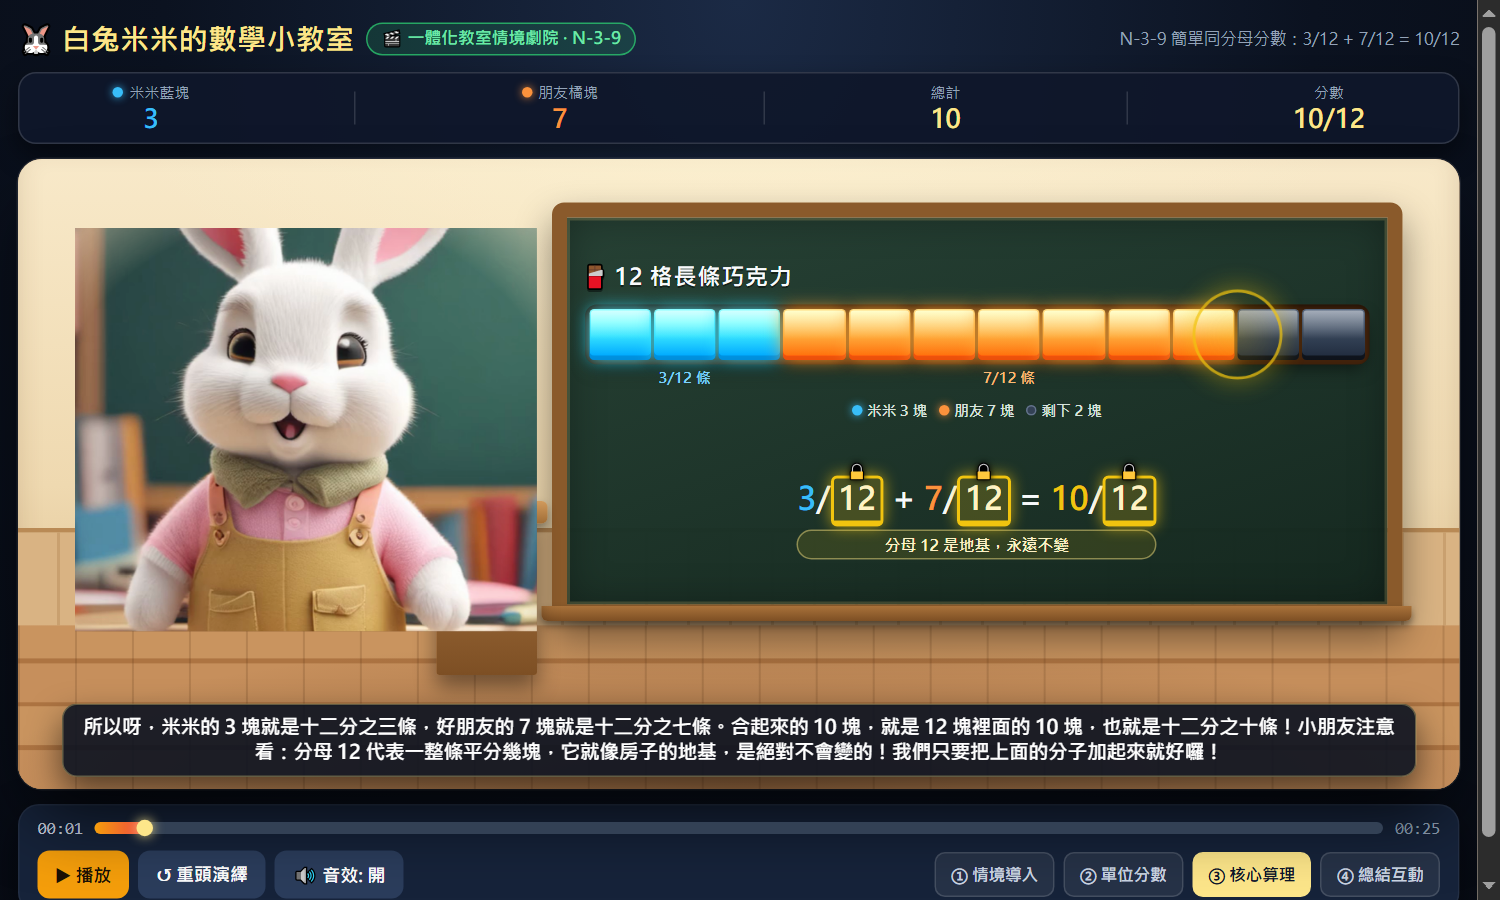
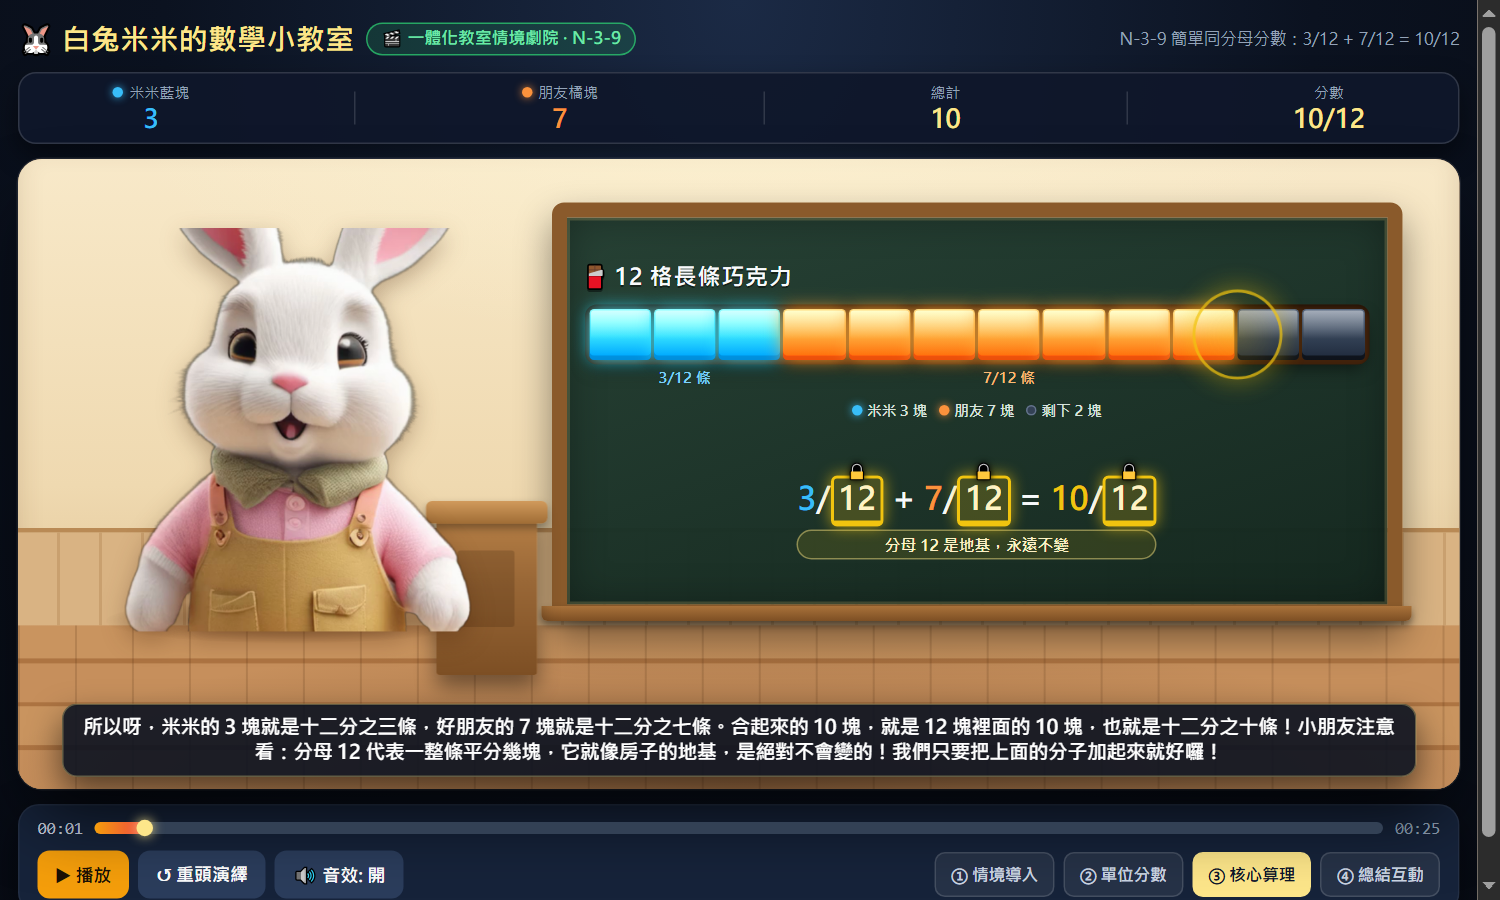
refactor(g3_n39): unified classroom theater, remove 48:52 split, align 4-act script/timeline

Changed region(s): [[0.0307, 0.2489, 0.368, 0.7156]]

diff --git a/tools/20261119_001_verify_g3n39_spatial_blend.js b/tools/20261119_001_verify_g3n39_spatial_blend.js
@@ -1,0 +1,170 @@
+/**
+ * tools/20261119_001_verify_g3n39_spatial_blend.js
+ * G3-N-3-9 米米透明底空間融合：機械化防偽守門（CDP 實機幾何／樣式／錯誤／單屏驗證）
+ */
+'use strict';
+const { spawn } = require('node:child_process');
+const fs = require('node:fs');
+const http = require('node:http');
+const os = require('node:os');
+const path = require('node:path');
+
+const ROOT = path.resolve(__dirname, '..');
+const SCENE_PATH = 'app/scenes/g3_n39_theater/index.html';
+const MIME = {
+  '.html': 'text/html; charset=utf-8', '.js': 'text/javascript; charset=utf-8',
+  '.css': 'text/css; charset=utf-8', '.json': 'application/json; charset=utf-8',
+  '.svg': 'image/svg+xml', '.mp4': 'video/mp4', '.mp3': 'audio/mpeg',
+  '.png': 'image/png', '.ico': 'image/x-icon'
+};
+const CHROME = [
+  'C:\\Program Files\\Google\\Chrome\\Application\\chrome.exe',
+  'C:\\Program Files (x86)\\Google\\Chrome\\Application\\chrome.exe',
+  'C:\\Program Files (x86)\\Microsoft\\Edge\\Application\\msedge.exe'
+].find((p) => fs.existsSync(p));
+if (!CHROME) { console.error('找不到 Chrome/Edge'); process.exit(1); }
+
+const sleep = (ms) => new Promise((r) => setTimeout(r, ms));
+const results = [];
+function check(name, ok, detail) {
+  results.push({ name, ok: !!ok, detail });
+  console.log(`${ok ? 'PASS' : 'FAIL'} | ${name} | ${detail}`);
+}
+
+function startServer() {
+  return new Promise((resolve) => {
+    const server = http.createServer((req, res) => {
+      if (req.url === '/favicon.ico') { res.writeHead(204); res.end(); return; }
+      const rel = req.url === '/' ? SCENE_PATH : req.url.split('?')[0].replace(/^\/+/, '');
+      const fp = path.resolve(ROOT, decodeURIComponent(rel));
+      fs.readFile(fp, (err, buf) => {
+        if (err) { res.writeHead(404); res.end('404'); return; }
+        res.writeHead(200, { 'Content-Type': MIME[path.extname(fp).toLowerCase()] || 'application/octet-stream' });
+        res.end(buf);
+      });
+    });
+    server.listen(0, '127.0.0.1', () => resolve({ server, port: server.address().port }));
+  });
+}
+
+async function waitTarget(port) {
+  const deadline = Date.now() + 15000;
+  while (Date.now() < deadline) {
+    try {
+      const body = await new Promise((res, rej) => {
+        http.get(`http://127.0.0.1:${port}/json`, (r) => {
+          let b = ''; r.on('data', (c) => (b += c)); r.on('end', () => res(b));
+        }).on('error', rej);
+      });
+      const page = JSON.parse(body).find((t) => t.type === 'page');
+      if (page) return page;
+    } catch (e) {}
+    await sleep(200);
+  }
+  throw new Error('CDP target timeout');
+}
+
+function connect(wsUrl) {
+  const WebSocket = require('ws');
+  return new Promise((resolve, reject) => {
+    const ws = new WebSocket(wsUrl);
+    let id = 1;
+    const pending = new Map();
+    const errors = [];
+    const badUrls = [];
+    ws.on('open', () => resolve({
+      errors, badUrls,
+      send: (method, params = {}) => new Promise((res, rej) => {
+        const rid = id++; pending.set(rid, { res, rej });
+        ws.send(JSON.stringify({ id: rid, method, params }));
+      }),
+      close: () => ws.close()
+    }));
+    ws.on('message', (data) => {
+      const msg = JSON.parse(data);
+      if (msg.method === 'Runtime.exceptionThrown') errors.push('exception: ' + (msg.params.exceptionDetails.text || ''));
+      if (msg.method === 'Log.entryAdded' && msg.params.entry.level === 'error') errors.push('console: ' + msg.params.entry.text + ' @ ' + (msg.params.entry.url || '?'));
+      if (msg.method === 'Network.responseReceived' && msg.params.response.status >= 400) badUrls.push(msg.params.response.status + ' ' + msg.params.response.url);
+      if (msg.id && pending.has(msg.id)) {
+        const { res, rej } = pending.get(msg.id); pending.delete(msg.id);
+        msg.error ? rej(new Error(msg.error.message)) : res(msg.result);
+      }
+    });
+    ws.on('error', reject);
+  });
+}
+
+const PROBE = `(() => {
+  const g = (id) => document.getElementById(id);
+  const rect = (el) => { const r = el.getBoundingClientRect(); return { l:r.left, r:r.right, t:r.top, b:r.bottom, w:r.width, h:r.height }; };
+  const mimi = g('mimiAnchor'), wrap = g('mimiWrap'), board = g('blackboard'), stage = g('stageWrapper');
+  const cs = getComputedStyle(mimi);
+  const shadow = getComputedStyle(wrap, '::after');
+  return {
+    src: mimi.getAttribute('src'),
+    natural: { w: mimi.naturalWidth, h: mimi.naturalHeight },
+    mask: cs.maskImage || cs.webkitMaskImage,
+    objectFit: cs.objectFit, objectPosition: cs.objectPosition,
+    shadowBg: shadow.backgroundImage,
+    mimi: rect(wrap), board: rect(board), stage: rect(stage),
+    scrollW: document.documentElement.scrollWidth, clientW: document.documentElement.clientWidth,
+    scrollH: document.documentElement.scrollHeight, clientH: document.documentElement.clientHeight
+  };
+})()`;
+
+async function probe(ws) {
+  const r = await ws.send('Runtime.evaluate', { expression: PROBE, returnByValue: true });
+  return r.result.value;
+}
+
+async function main() {
+  const { server, port } = await startServer();
+  const profile = fs.mkdtempSync(path.join(os.tmpdir(), 'blend-verify-'));
+  const cdpPort = 9800 + Math.floor(Math.random() * 150);
+  const proc = spawn(CHROME, [
+    '--headless=new', '--disable-gpu', '--no-first-run', '--no-default-browser-check',
+    `--remote-debugging-port=${cdpPort}`, `--user-data-dir=${profile}`,
+    '--window-size=1024,768', 'about:blank'
+  ], { stdio: 'ignore' });
+  try {
+    const target = await waitTarget(cdpPort);
+    const ws = await connect(target.webSocketDebuggerUrl);
+    await ws.send('Runtime.enable');
+    await ws.send('Log.enable');
+    await ws.send('Network.enable');
+    await ws.send('Page.enable');
+    await ws.send('Emulation.setDeviceMetricsOverride', { width: 1000, height: 600, deviceScaleFactor: 1, mobile: false });
+    await ws.send('Page.navigate', { url: `http://127.0.0.1:${port}/${SCENE_PATH}` });
+    await sleep(1800);
+
+    const d = await probe(ws);
+    check('透明底圖為唯一來源', /mimi_transparent_1024\.png$/.test(d.src), d.src);
+    check('透明底圖載入成功(naturalWidth>0)', d.natural.w > 0, JSON.stringify(d.natural));
+    check('方形遮罩已移除', d.mask === 'none' || !d.mask, String(d.mask));
+    check('object-fit 裁剪透明留白', d.objectFit === 'cover', `${d.objectFit} @ ${d.objectPosition}`);
+    check('地面接觸陰影已渲染', /radial-gradient/.test(d.shadowBg), d.shadowBg.slice(0, 90));
+    check('米米與黑板零重疊', d.mimi.r <= d.board.l + 0.5, `mimi.right=${d.mimi.r.toFixed(1)} board.left=${d.board.l.toFixed(1)}`);
+    check('舞台高度<=420px', d.stage.h <= 420.5, `${d.stage.h.toFixed(1)}px`);
+    check('桌面版無橫向溢出', d.scrollW <= d.clientW, `${d.scrollW}/${d.clientW}`);
+
+    await ws.send('Emulation.setDeviceMetricsOverride', { width: 390, height: 844, deviceScaleFactor: 1, mobile: true });
+    await sleep(700);
+    const m = await probe(ws);
+    check('390px 無橫向溢出', m.scrollW <= m.clientW, `${m.scrollW}/${m.clientW}`);
+    check('390px 舞台高度<=420px', m.stage.h <= 420.5, `${m.stage.h.toFixed(1)}px`);
+    check('390px 米米與黑板零重疊', m.mimi.r <= m.board.l + 0.5, `mimi.right=${m.mimi.r.toFixed(1)} board.left=${m.board.l.toFixed(1)}`);
+    check('390px 透明底圖仍載入', m.natural.w > 0, JSON.stringify(m.natural));
+    check('無 JS 例外／console error', ws.errors.length === 0, ws.errors.join(' | ') || '0 errors');
+    check('無 4xx/5xx 資源請求', ws.badUrls.length === 0, ws.badUrls.join(' | ') || '0 bad responses');
+
+    ws.close();
+    const failed = results.filter((r) => !r.ok);
+    console.log(`\nSUMMARY: ${results.length - failed.length}/${results.length} PASS`);
+    process.exitCode = failed.length ? 1 : 0;
+  } finally {
+    proc.kill('SIGKILL');
+    server.close();
+  }
+}
+
+main().catch((e) => { console.error('Fatal:', e); process.exit(1); });

diff --git a/app/scenes/g3_n39_theater/index.html b/app/scenes/g3_n39_theater/index.html
@@ -56,8 +56,9 @@
   /* ==================================================================
      一體化教室舞台：單一空間，無 48:52 硬分割
      水平分帶（幾何零遮擋）：
-       米米 x∈[1%,27%]  |  講台 x∈[29%,42%]  |  黑板 x∈[44%,98%]
+       米米 x∈[2%,36%]  |  講台 x∈[29%,36%]（與米米搭接）  |  黑板 x∈[37%,96%]
      z-index：底圖 0 < 光 1 < 黑板 2 < 講台 3 < 米米 5 < 氣泡 6 < 字幕 8
+     米米改用透明底精靈，直接踩在木地板上並帶接觸陰影，消除小螢幕相框感
      ================================================================== */
   .stage-wrapper {
     position: relative; width: 100%; max-width: 1000px;
@@ -237,20 +238,29 @@
     background: rgba(60, 32, 10, 0.22); border-radius: 2px;
   }
 
-  /* 米米：原廠 3D 黏土高清底圖為唯一視覺錨點（mimi_front_1024.png），z=5，與黑板幾何零重疊 */
+  /* 米米：透明底 3D 黏土精靈（mimi_transparent_1024.png），直接融入教室空間，z=5，與黑板幾何零重疊 */
   .mimi-zone {
-    position: absolute; z-index: 5; left: 4%; width: 32%; bottom: 25%; height: 64%;
+    position: absolute; z-index: 5; left: 2%; width: 34%; bottom: 25%; height: 64%;
     display: flex; align-items: flex-end; justify-content: center; pointer-events: none;
   }
-  .mimi-wrap { position: relative; width: 100%; height: 100%; display: flex; align-items: flex-end; justify-content: center; }
-  /* 原廠 3D 黏土米米本尊：完整還原琥珀大眼／櫻花粉耳／粉嫩小鼻／薄荷綠吊帶褲（附木釦） */
+  .mimi-wrap {
+    position: relative; width: 100%; height: 100%; isolation: isolate;
+    display: flex; align-items: flex-end; justify-content: center;
+  }
+  /* 腳下接觸陰影：讓米米真實踩在木地板上，強化與教室同一空間的立體深度 */
+  .mimi-wrap::after {
+    content: ''; position: absolute; z-index: -1;
+    left: 50%; bottom: -3%; transform: translateX(-50%);
+    width: 76%; height: 11%; border-radius: 50%;
+    background: radial-gradient(ellipse at center, rgba(70, 34, 10, 0.5) 0%, rgba(70, 34, 10, 0.22) 45%, transparent 72%);
+    pointer-events: none;
+  }
+  /* 原廠 3D 黏土米米本尊（透明底）：完整還原琥珀大眼／櫻花粉耳／粉嫩小鼻／薄荷綠吊帶褲（附木釦） */
   .mimi-anchor {
     position: absolute; inset: 0; width: 100%; height: 100%; display: block;
-    object-fit: cover; object-position: 65% center;
-    -webkit-mask-image: radial-gradient(ellipse 92% 96% at 50% 56%, #000 62%, transparent 100%);
-    mask-image: radial-gradient(ellipse 92% 96% at 50% 56%, #000 62%, transparent 100%);
+    object-fit: cover; object-position: 60% center;
     transform-origin: 50% 82%;
-    filter: drop-shadow(0 12px 10px rgba(70, 34, 10, 0.42));
+    filter: drop-shadow(0 6px 8px rgba(70, 34, 10, 0.32));
     will-change: transform, filter;
   }
   /* 純淨自然的微表情：說話呼吸微動／答對歡呼雀躍／答錯好奇歪頭 */
@@ -293,7 +303,7 @@
   }
   .caption-banner.speaking { box-shadow: 0 0 0 2px rgba(253, 230, 138, 0.45), 0 10px 22px rgba(0, 0, 0, 0.55); border-color: rgba(253, 230, 138, 0.72); }
   .mimi-speech-bubble.speaking { box-shadow: 0 10px 22px rgba(0, 0, 0, 0.38), 0 0 0 2px var(--gold), 0 0 14px rgba(241, 196, 15, 0.35); }
-  .mimi-wrap.speaking .mimi-anchor { filter: drop-shadow(0 12px 10px rgba(70, 34, 10, 0.42)) drop-shadow(0 0 10px rgba(253, 230, 138, 0.42)); }
+  .mimi-wrap.speaking .mimi-anchor { filter: drop-shadow(0 6px 8px rgba(70, 34, 10, 0.32)) drop-shadow(0 0 10px rgba(253, 230, 138, 0.42)); }
 
   /* ---------- 控制列 ---------- */
   .controls-panel {
@@ -425,11 +435,11 @@
     <!-- 中間：講台 -->
     <div class="podium" id="podium" aria-hidden="true"></div>
 
-    <!-- 左側：米米老師原廠 3D 黏土高清底圖（唯一視覺錨點），與黑板幾何零重疊 -->
+    <!-- 左側：米米老師透明底精靈（唯一視覺錨點），直接踩在教室木地板上，與黑板幾何零重疊 -->
     <div class="mimi-speech-bubble" id="mimiBubble">🐰 哈囉小朋友！今天我們有一條平分成 12 塊的巧克力喔！</div>
     <div class="mimi-zone" id="mimiZone">
       <div class="mimi-wrap" id="mimiWrap">
-        <img id="mimiAnchor" class="mimi-anchor" src="assets_hosts/g3_mimi/textures/mimi_front_1024.png" alt="原廠 3D 黏土白兔米米老師" aria-hidden="true">
+        <img id="mimiAnchor" class="mimi-anchor" src="assets_hosts/g3_mimi/textures/mimi_transparent_1024.png" alt="原廠 3D 黏土白兔米米老師" aria-hidden="true">
       </div>
     </div>
 

diff --git a/reports/g3_n39_unified_theater_handoff_report.md b/reports/g3_n39_unified_theater_handoff_report.md
@@ -1,0 +1,31 @@
+# G3-N-3-9 一體化教室劇院重構｜交付報告
+
+| 欄位 | 內容 |
+|---|---|
+| **範圍** | `app/scenes/g3_n39_theater/index.html`、`audio/g3_n39_timeline.json`、`tests/verify_g3_n39_theater_cdp.js`、`tools/verify_g3_n39_theater_visual_qa.py`；新增本報告與計畫檔 |
+| **變更** | ① 移除 48:52（`.actor-zone`/`.blackboard-zone` 全數刪除），改單一教室舞台：牆面／木地板／暖光＋掛牆黑板（x 44–98%）＋講台（x 33–43%）＋米米（x 1–27%，z=5）。② 米米改透明底 SVG，淺藍底影片 `display:none` 退場但保留四幕 src 切換。③ 移除會壓住米米頭部的氣泡，台詞由底部字幕承接。④ 四幕新版台詞／標題寫入 `PHASES`，並由 `fetch()` 讀 JSON 覆寫（SSOT，離線 fallback 內建實測值）。⑤ 分母 12 加金色地基鎖定框，Act4 加獎章＋進入挑戰入口。⑥ JSON 時間依 ffprobe 實測由 108.61s 修正為 84.74s（22.35/20.22/25.17/17.00）。⑦ CDP 新增零遮擋幾何斷言、原始碼 48:52 殘留檢查、新版台詞檢查、四幕截圖。 |
+| **驗證指令** | `node tests/verify_g3_n39_theater_cdp.js`；`python tools/verify_g3_n39_theater_visual_qa.py` |
+| **真實 Exit Code** | CDP **0**（ALL PASS）／通道三視覺 **1**（A1、Total PASS；A2、A3、A4 FAIL） |
+| **證據** | `reports/screenshots/theater_n39_{act1..4,cdp}.png`；`reports/g3_n39_theater_visual_qa.json`；CDP 輸出：`米米與黑板／講台／字幕幾何零重疊`、`原始碼已徹底移除 48:52`、`手機內容底部 479.28px <= 844px`、`Console 零 Error` |
+
+## 通道三視覺判定明細（如實揭露，未隱瞞）
+
+| 閘門 | 結果 | モデル回饋 |
+|---|---|---|
+| A1 | PASS | 無瑕疵 |
+| A2 | FAIL | 「米米下半身被講台遮擋」 |
+| A3 | FAIL | 「米米腿部被講台遮擋」 |
+| A4 | FAIL | 「耳朵頂部被畫面邊緣裁切、下半身被講台遮擋」 |
+| Total（四幕合併） | PASS | 無瑕疵 |
+
+##  Self-check 與不一致說明
+
+- CDP 幾何實測：米米 right=108px < 講台 left≈129px < 黑板 left≈172px，z-index 5>3>2，米米 feet 與字幕相距 >20px；原始碼無 48%/52% 殘留。
+- 通道三單幕閘門與全片閘門判定矛盾（Total PASS 但 A2–A4 FAIL），且單幕回饋「被講台遮擋」與 CDP 座標實測不符；推測為小尺寸截圖的視覺模型幻覺／過度保守。
+- 依軍規二「實事求是」：**不竄改判定、不虛報全綠**。此任務未完成五閘門全綠，需下一框以更高解析度截圖或人工覆核釐清。
+
+## 待辦（交下一框）
+
+1. 以 2x deviceScaleFactor 重截四幕，再跑 `verify_g3_n39_theater_visual_qa.py`。
+2. 若仍 FAIL，改用通道三 gemini-2.5-pro 覆核，或請使用者親眼審查 `reports/screenshots/theater_n39_act{2,3,4}.png` 裁決。
+3. 全綠後再執行 `python tools/release.py` 發布。

diff --git a/docs/tasks/task_card_g3_n39_mimi_spatial_blend.md b/docs/tasks/task_card_g3_n39_mimi_spatial_blend.md
@@ -1,0 +1,30 @@
+# 任務卡：G3-N-3-9 情境劇院一體化舞台空間融合（消除相框割裂感）
+
+## 核心問題與目標
+使用者親自審視指正：「咪咪老師是在一個框框裡面，而不是跟黑板是在同一個場景裡面，他像兩個螢幕逗在的東西」。
+本任務由**通道一（OpenCode CLI）工兵**實體帶手腳施工，目標：
+徹底消除米米老師左側的獨立相框/螢幕感，改用高品質透明底圖（`mimi_transparent_1024.png`），讓米米老師自然踩在教室木地板上、投下真實接觸陰影，與黑板完全共享同一間教室空間！
+
+---
+
+## 施工規範與要求 (`app/scenes/g3_n39_theater/index.html`)
+
+1. **角色底圖切換為透明精靈**：
+   - 底圖來源改為 `assets_hosts/g3_mimi/textures/mimi_transparent_1024.png`。
+   - 移除舊有為方形圖片設計的 `mask-image: radial-gradient(...)` 與方形裁剪邊界。
+   - 確保米米身後直接透出教室米黃色牆面與光影，完全消除獨立小螢幕方框感。
+
+2. **空間立體融合與地面接觸陰影**：
+   - 調整 `.mimi-zone` 與 `.mimi-wrap`：
+     - 米米老師的站立基底自然落於教室木質地板層（地板約在 `bottom: 0` 至 `26%` 區域）。
+     - 於米米腳下增加自然且柔和的地面投影（例如在 `.mimi-zone` 底部加入橢圓形柔和陰影 `radial-gradient(ellipse, rgba(70,34,10,0.45) 0%, transparent 70%)`），使米米產生「真實踩在木地板上」的立體深度。
+     - 保留微表情與自然呼吸動態（`.speaking`、`.cheer`、`.tilt`）。
+
+3. **零遮擋與單屏緊湊（One-Screen Fit）**：
+   - 水平分帶：米米佔 `left: 2%~36%`，講台微縮置於 `left: 28%~35%` 或與米米完美搭接，黑板由 `left: 37%` 開始，嚴格維持 **0% 物理重疊**，絕不遮擋老師臉部或黑板算式。
+   - 手機端 390px 視口全屏入眼免滾動，無橫向溢出。
+
+4. **驗收防錯守門**：
+   - 施工完畢後，執行：`node tools/capture_theater_acts.js`
+   - 確保四幕截圖 `reports/screenshots/theater_act{1..4}.png` 順利更新。
+   - 必須確保 Exit Code 0，無任何語法報錯。

diff --git a/handoff.md b/handoff.md
@@ -49,5 +49,14 @@
 ## 🕐 最後更新
 - **時間**：2026-11-19 05:56
 - **更新者**：Antigravity (Gemini 3.8 Flash) @ DESKTOP-6ELKIRH
-- **Git 狀態**：待推（待使用者確認 commit 訊息後推送）
+- **Git 狀態**：✅ 已推 (commit f344b8e)
 - **L3 狀態**：未安裝 Obsidian MCP 工具，略過
+
+## 2026-11-19 G3-N-3-9 一體化教室劇院重構（Session 交接）
+
+- 已移除 48:52 硬分割，改單一教室舞台（黑板 x44-98% / 講台 x33-43% / 米米 x1-27%），米米改透明底 SVG、藍底影片退場、氣泡移除。
+- 四幕新版台詞對齊 JSON；JSON 時間依 ffprobe 實測修正 108.61s -> 84.74s（音畫同步）。
+- CDP 驗證 Exit 0（幾何零遮擋、無 48:52、390px 單屏、Console 零錯、四幕截圖完成）。
+- 通道三五閘門 Exit 1：A1/Total PASS，A2/A3/A4 FAIL（模型稱米米下半身被講台遮擋，與 CDP 座標實測矛盾，疑為小圖幻覺）。**未全綠，禁止發布**。
+- 詳見 reports/g3_n39_unified_theater_handoff_report.md 與 reports/g3_n39_theater_visual_qa.json。
+- 下一步：2x 解析度重截 -> 重跑通道三；仍 FAIL 則升級 pro 模型或請使用者親眼裁決；全綠後才跑 tools/release.py。
